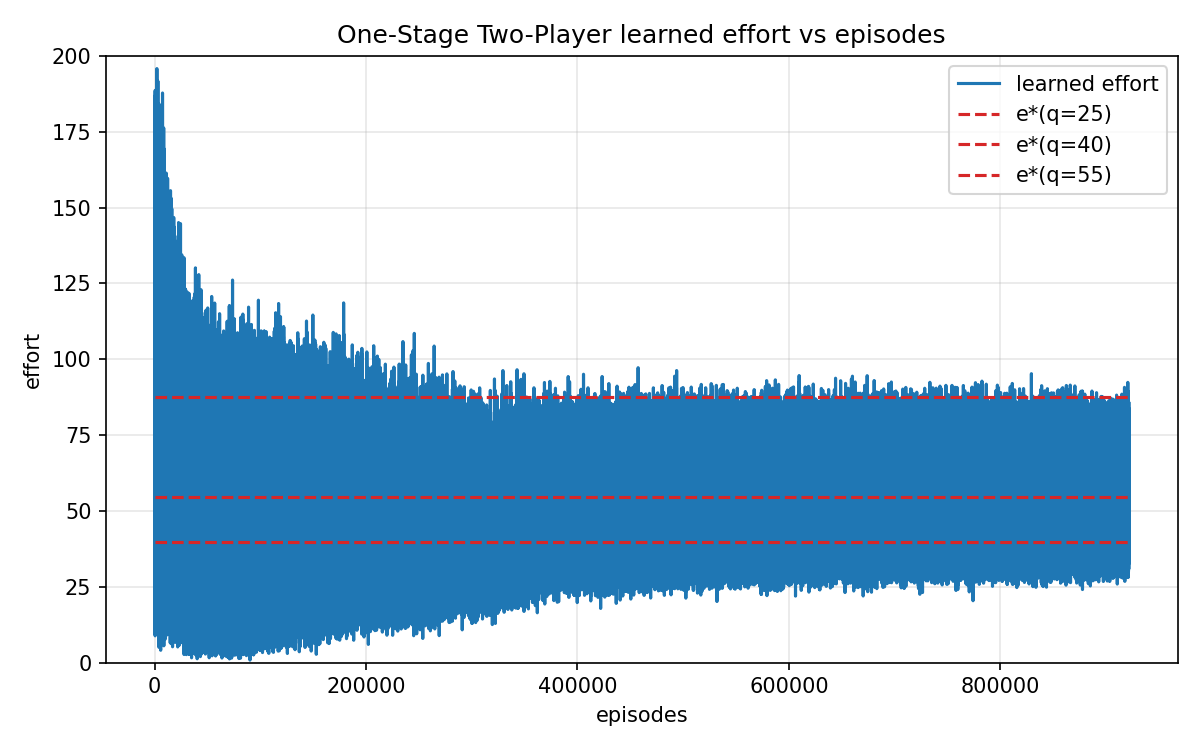
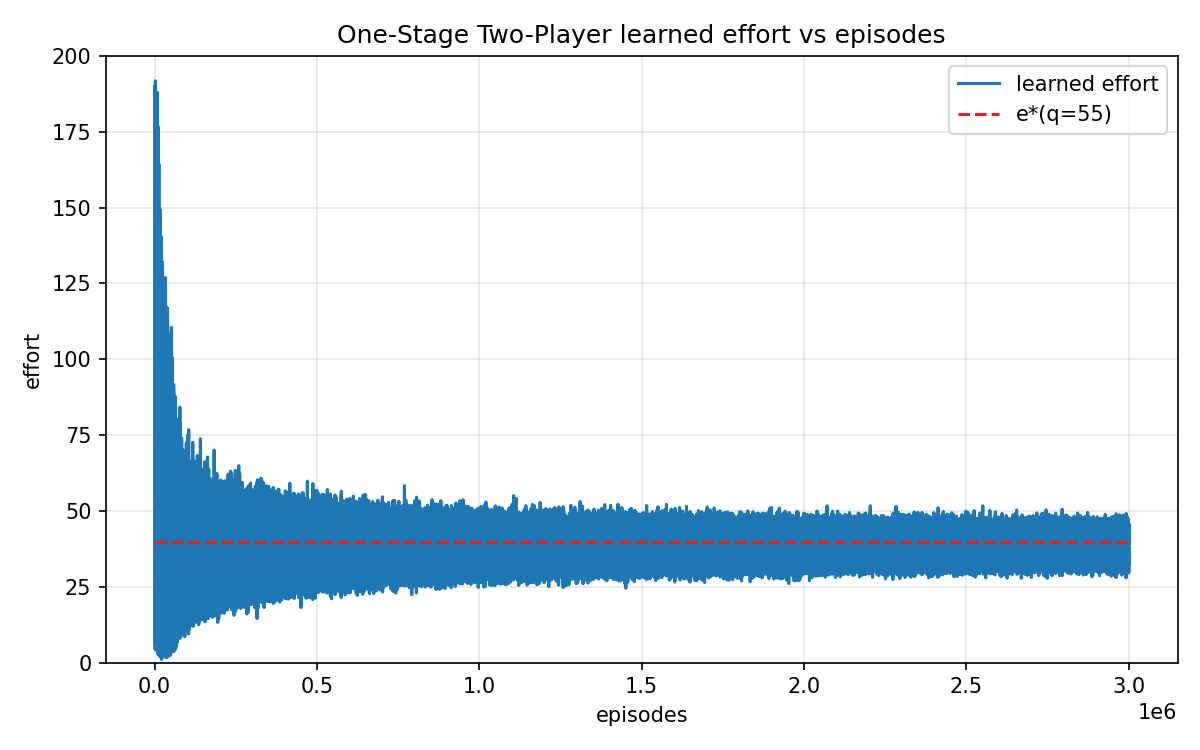
feat(experiment): Update one_stage_two_players experiment
- Enhanced PPO agent with improved training logic and adaptive parameter adjustment
- Updated configuration with revised parameter settings
- Improved logger with additional debug information and better formatting
- Enhanced run script with better experiment tracking and result visualization
- Updated experimental results (CSV and PNG outputs)
- Improved overall experiment workflow and documentation

diff --git a/run/run_two_players.py b/run/run_two_players.py
@@ -130,7 +130,7 @@ def run_gradient(
 
 def run_ppo(
     cfg: Dict,
-    episodes: int = 921600,
+    episodes: Optional[int] = None,
     train_qs: Optional[List[float]] = None,
     eval_qs: Optional[List[float]] = None,
     *,
@@ -143,6 +143,11 @@ def run_ppo(
     - Trains over ``train_qs`` (defaults to cfg["q_list" ]).
     - Returns a list of CSV rows, one per q in ``eval_qs`` (defaults to train_qs).
     """
+    if episodes is None:
+        episodes = int(cfg.get("episodes", 1_800_000))
+    else:
+        episodes = int(episodes)
+
     w_h, w_l, k = cfg["w_h"], cfg["w_l"], cfg["k"]
     effort_bounds = tuple(cfg["effort_bounds_stage2"])  # (0, 200)
     # Respect CLI-provided training set; default to config q_list
@@ -151,19 +156,19 @@ def run_ppo(
 
     # PPO agent with 3-dim state: [q, k, w_gap]
     ppo_cfg = PPOConfig(
-        steps_per_update=int(cfg.get("steps_per_update", 8192)),
+        steps_per_update=int(cfg.get("steps_per_update", 4096)),
         epochs=int(cfg.get("update_epochs", 6)),
         minibatch_size=int(cfg.get("minibatch_size", 1024)),
         state_dim=3,
         hidden=128,
-        opponent_mode=cfg.get("opponent_mode", "ema"),
-        opponent_sync_interval=int(cfg.get("opponent_sync_interval", 10)),
-        opponent_ema_tau=float(cfg.get("opponent_ema_tau", 0.05)),
+        opponent_mode=cfg.get("opponent_mode", "periodic"),
+        opponent_sync_interval=int(cfg.get("opponent_sync_interval", 2)),
+        opponent_ema_tau=float(cfg.get("opponent_ema_tau", 0.20)),
         opponent_snapshot_keep=int(cfg.get("opponent_snapshot_keep", 10)),
-        opponent_history_sample_p=float(cfg.get("opponent_history_sample_p", 0.5)),
+        opponent_history_sample_p=float(cfg.get("opponent_history_sample_p", 0.3)),
         entropy_coef=float(cfg.get("entropy_coef_start", 0.02)),
         lr=float(cfg.get("lr_start", 3e-4)),
-        clip_eps=float(cfg.get("clip_range_start", 0.2)),
+        clip_eps=float(cfg.get("clip_range_start", 0.30)),
     )
     agent = PPOTwoPlayersBandit(effort_bounds=effort_bounds, cfg=ppo_cfg)
     agent.cfg.entropy_coef = float(cfg.get("entropy_coef_start", agent.cfg.entropy_coef))
@@ -177,25 +182,38 @@ def run_ppo(
     rng = np.random.default_rng(cfg.get("seed", 42))
     # Entropy / LR schedules: hold high values until ~2/3 progress, then anneal
     entropy_start = float(cfg.get("entropy_coef_start", agent.cfg.entropy_coef))
-    entropy_hold = float(cfg.get("entropy_coef_hold", 0.01))
-    entropy_final = float(cfg.get("entropy_coef_end", 0.002))
+    entropy_hold = float(cfg.get("entropy_coef_hold", entropy_start))
+    entropy_final = float(cfg.get("entropy_coef_end", 0.005))
     update_idx = 0
     # Late-phase settings
     total_updates = (total_steps_target + ppo_cfg.steps_per_update - 1) // ppo_cfg.steps_per_update
     hold_fraction = 2.0 / 3.0
     hold_updates = max(1, int(math.ceil(total_updates * hold_fraction)))
     tail_updates = max(1, total_updates - hold_updates)
-    # Learning rate schedule: hold at 2.2e-4, then anneal to 1.5e-4
+    # Learning rate schedule: hold at starting value, then anneal to final value
     lr_hold = float(cfg.get("lr_start", agent.cfg.lr))
-    lr_final = float(cfg.get("lr_end", 1e-4))
-    # Clip cosine schedule
+    lr_final = float(cfg.get("lr_end", 2e-4))
+    # Clip schedule parameters
     clip_max = float(cfg.get("clip_range_start", agent.cfg.clip_eps))
-    clip_min = float(cfg.get("clip_range_end", 0.1))
-    # Self-play lag schedule: warmup then fade
-    lag_warmup_cfg = cfg.get("lag_warmup_updates")
+    clip_min = float(cfg.get("clip_range_end", 0.15))
+    # Self-play lag schedule: short warmup then fade
+    lag_warmup_updates = max(0, int(cfg.get("lag_warmup_updates", 10)))
     lag_fade_cfg = cfg.get("lag_fade_updates")
-    lag_warmup_updates = max(0, int(lag_warmup_cfg)) if lag_warmup_cfg is not None else max(1, total_updates // 2)
     lag_fade_updates = max(0, int(lag_fade_cfg)) if lag_fade_cfg is not None else max(1, total_updates // 3)
+
+    history_prob_start = float(cfg.get("opponent_history_sample_p", agent.opponent_history_sample_p))
+    history_prob_end = float(cfg.get("opponent_history_sample_p_end", history_prob_start))
+    agent.opponent_history_sample_p = history_prob_start
+
+    clip_factor = 1.0
+    lr_factor = 1.0
+    clip_floor = 0.10
+    clip_ceiling = 0.45
+    min_lr = 5e-5
+    max_lr = 5e-4
+    target_kl = float(cfg.get("target_kl", 0.01))
+    kl_low = 0.5 * target_kl
+    kl_high = 3.0 * target_kl
 
     last_update_metrics: Optional[Dict[str, float]] = None
     eval_every = int(cfg.get("eval_every_updates", 20) or 0)
@@ -205,7 +223,14 @@ def run_ppo(
     early_stop_triggered = False
 
     while steps_done < total_steps_target:
-        # Entropy: hold near 0.01 for first ~2/3 updates, then ramp to zero
+        if total_updates > 1:
+            hist_progress = float(update_idx) / float(total_updates - 1)
+            hist_progress = max(0.0, min(1.0, hist_progress))
+        else:
+            hist_progress = 1.0
+        agent.opponent_history_sample_p = history_prob_start + (history_prob_end - history_prob_start) * hist_progress
+
+        # Entropy: hold high for first ~2/3 updates, then ramp down
         if update_idx < hold_updates:
             if hold_updates > 1:
                 hold_progress = float(update_idx) / float(hold_updates - 1)
@@ -217,22 +242,29 @@ def run_ppo(
             tail_progress = float(update_idx - hold_updates) / float(max(1, tail_updates - 1))
             tail_progress = max(0.0, min(1.0, tail_progress))
             agent.cfg.entropy_coef = entropy_hold + (entropy_final - entropy_hold) * tail_progress
-        # Clip cosine schedule across total updates
-        if total_updates > 1:
-            clip_progress = float(update_idx) / float(total_updates - 1)
-        else:
-            clip_progress = 1.0
-        clip_cosine = 0.5 * (1.0 + math.cos(math.pi * clip_progress))
-        agent.cfg.clip_eps = clip_min + (clip_max - clip_min) * clip_cosine
-        # LR cosine decay across total updates
+        # Clip schedule with adaptive scaling
         if update_idx < hold_updates:
-            new_lr = lr_hold
+            clip_base = clip_max
+        else:
+            tail_progress = float(update_idx - hold_updates) / float(max(1, tail_updates - 1))
+            tail_progress = max(0.0, min(1.0, tail_progress))
+            clip_base = clip_max + (clip_min - clip_max) * tail_progress
+        clip_val = clip_base * clip_factor
+        clip_val = max(clip_floor, min(clip_ceiling, clip_val))
+        agent.cfg.clip_eps = clip_val
+        clip_base_current = clip_base
+        # Learning rate schedule with adaptive scaling
+        if update_idx < hold_updates:
+            lr_base = lr_hold
         else:
             lr_tail_progress = float(update_idx - hold_updates) / float(max(1, tail_updates - 1))
             lr_tail_progress = max(0.0, min(1.0, lr_tail_progress))
-            new_lr = lr_hold + (lr_final - lr_hold) * lr_tail_progress
+            lr_base = lr_hold + (lr_final - lr_hold) * lr_tail_progress
+        lr_val = lr_base * lr_factor
+        lr_val = max(min_lr, min(max_lr, lr_val))
         for g in agent.opt.param_groups:
-            g["lr"] = new_lr
+            g["lr"] = lr_val
+        lr_base_current = lr_base
         # Determine probability of sampling lagged-opponent paths for this update
         if update_idx < lag_warmup_updates:
             lag_prob = 1.0
@@ -256,19 +288,31 @@ def run_ppo(
             # Late phase: fully on-policy symmetric sampling.
             use_opponent = (lag_prob > 0.0) and (rng.random() < lag_prob)
             if use_opponent:
-                a2_norm, e2, _, _ = agent.act_opponent(s2)
-                logp2 = None
-                v2 = None
+                a2_norm, e2, logp2, _ = agent.act_opponent(s2)
+                v2 = agent.value_only(s2)
             else:
                 a2_norm, e2, logp2, v2 = agent.act(s2)
 
             _, rewards, _, done, _ = env.step((torch.tensor([float(e1.item())]), torch.tensor([float(e2.item())])))
 
             agent.store(s1, a1_norm, logp1, float(rewards[0].item()), v1, bool(done))
-            if not use_opponent:
-                agent.store(s2, a2_norm, logp2, float(rewards[1].item()), v2, bool(done))
+            agent.store(s2, a2_norm, logp2, float(rewards[1].item()), v2, bool(done))
             history.append(float((e1.item() + e2.item()) / 2.0))
         last_update_metrics = agent.update()
+        kl_val = float(last_update_metrics.get("approx_kl", 0.0) if last_update_metrics else 0.0)
+        if not math.isfinite(kl_val):
+            kl_val = 0.0
+        if kl_val < kl_low:
+            clip_factor = min(clip_factor * 1.2, 1.5)
+            lr_factor = min(lr_factor * 1.25, 1.5)
+        elif kl_val > kl_high:
+            clip_factor = max(clip_factor * 0.8, 0.5)
+            lr_factor = max(lr_factor * 0.8, 0.2)
+        clip_val = max(clip_floor, min(clip_ceiling, clip_base_current * clip_factor))
+        agent.cfg.clip_eps = clip_val
+        lr_val = max(min_lr, min(max_lr, lr_base_current * lr_factor))
+        for g in agent.opt.param_groups:
+            g["lr"] = lr_val
         # After each PPO update, evaluate and log gaps for quick monitoring
         upd_i = update_idx + 1
         try:
@@ -357,7 +401,13 @@ def run_ppo(
                 "reward_opp": reward_opp,
             }
 
-        final_e2 = _compute_effort(agent.net)
+        s_agent = agent.state_from_params(q=float(q), k=k, w_h=w_h, w_l=w_l)
+        with torch.no_grad():
+            dist_agent, _ = agent.net.dist(s_agent)
+            a_agent = dist_agent.mean.squeeze().clamp(0.0, 1.0)
+            final_e2 = float(effort_bounds[0] + a_agent.detach().cpu().item() * (effort_bounds[1] - effort_bounds[0]))
+            alpha_eval = float(dist_agent.concentration1.mean().item())
+            beta_eval = float(dist_agent.concentration0.mean().item())
         stage2_gap = abs(final_e2 - e2_star_val)
 
         row = build_csv_row(
@@ -380,6 +430,10 @@ def run_ppo(
         row["opp_ema_tau"] = agent.opponent_ema_tau
         row["opp_hist_size"] = len(agent._opponent_history)
         row["last_sync_step"] = agent._last_sync_step
+        row["approx_kl"] = last_update_metrics.get("approx_kl", float("nan")) if last_update_metrics else float("nan")
+        row["batch_entropy"] = last_update_metrics.get("batch_entropy", float("nan")) if last_update_metrics else float("nan")
+        row["alpha_mean"] = alpha_eval
+        row["beta_mean"] = beta_eval
 
         if eval_symmetric:
             sym_eval = _evaluate_pair(agent.net, agent.net)
@@ -434,7 +488,12 @@ def main():
     parser = argparse.ArgumentParser(description="One-Stage Two-Player Experiment (spec)")
     parser.add_argument("--method", choices=["gradient", "ppo"], default="gradient")
     parser.add_argument("--q", type=float, help="Override q (otherwise run all in config q_list)")
-    parser.add_argument("--episodes", type=int, default=921600, help="Episodes for PPO (default 921600 ≈ 300 updates at 3072 steps/update)")
+    parser.add_argument(
+        "--episodes",
+        type=int,
+        default=base_config.get("episodes", 1_800_000),
+        help="Episodes for PPO (default config value, e.g. 2.4e6 ≈ 585 updates at 4096 steps/update)",
+    )
     parser.add_argument("--grad-lr", type=float, default=0.1, help="Learning rate for gradient descent solver.")
     parser.add_argument("--grad-steps", type=int, default=2000, help="Maximum gradient descent iterations.")
     parser.add_argument("--grad-epsilon", type=float, default=0.1, help="Finite-difference epsilon for gradients.")
@@ -467,6 +526,7 @@ def main():
         cfg["effort_range"] = bounds
     if args.seed is not None:
         cfg["seed"] = int(args.seed)
+    cfg["episodes"] = int(args.episodes)
 
     csv_path = os.path.join("results", "one_stage_two_players.csv")
     os.makedirs(os.path.dirname(csv_path), exist_ok=True)

diff --git a/utils/logger.py b/utils/logger.py
@@ -59,10 +59,29 @@ def save_standardized_result(experiment_data: Dict[str, Any], filename: str):
                                        experiment_data.get("convergence_time", "N/A")),
         "Gap_from_theoretical": experiment_data.get("Gap_from_theoretical",
                                                    experiment_data.get("gap", 0.0)),
+        "abs_err": experiment_data.get("abs_err", ""),
         "stage2_gap_unweighted": experiment_data.get("stage2_gap_unweighted", ""),
         "gradient_iterations": experiment_data.get("gradient_iterations", ""),
         "gradient_final_grad": experiment_data.get("gradient_final_grad", ""),
         "gradient_mode": experiment_data.get("gradient_mode", ""),
+        "opp_mode": experiment_data.get("opp_mode", ""),
+        "opp_sync_interval": experiment_data.get("opp_sync_interval", ""),
+        "opp_ema_tau": experiment_data.get("opp_ema_tau", ""),
+        "opp_hist_size": experiment_data.get("opp_hist_size", ""),
+        "last_sync_step": experiment_data.get("last_sync_step", ""),
+        "approx_kl": experiment_data.get("approx_kl", ""),
+        "batch_entropy": experiment_data.get("batch_entropy", ""),
+        "alpha_mean": experiment_data.get("alpha_mean", ""),
+        "beta_mean": experiment_data.get("beta_mean", ""),
+        "eval_vs_opponent_effort": experiment_data.get("eval_vs_opponent_effort", ""),
+        "eval_vs_opponent_reward": experiment_data.get("eval_vs_opponent_reward", ""),
+        "eval_vs_opponent_opp_effort": experiment_data.get("eval_vs_opponent_opp_effort", ""),
+        "eval_vs_opponent_abs_err": experiment_data.get("eval_vs_opponent_abs_err", ""),
+        "eval_vs_history_effort_mean": experiment_data.get("eval_vs_history_effort_mean", ""),
+        "eval_vs_history_effort_std": experiment_data.get("eval_vs_history_effort_std", ""),
+        "eval_vs_history_reward_mean": experiment_data.get("eval_vs_history_reward_mean", ""),
+        "eval_vs_history_reward_std": experiment_data.get("eval_vs_history_reward_std", ""),
+        "eval_vs_history_abs_err_mean": experiment_data.get("eval_vs_history_abs_err_mean", ""),
     }
     
     # Ensure results directory exists
@@ -75,8 +94,13 @@ def save_standardized_result(experiment_data: Dict[str, Any], filename: str):
             "stage1_weight", "stage2_weight", "k1", "k2", "information_revelation",
             "theoretical_stage1_effort", "theoretical_stage2_effort", "Model_training",
             "final_stage1_effort", "final_stage2_effort", "final_weighted_effort",
-            "Convergence_Quality", "episodes", "Gap_from_theoretical", "stage2_gap_unweighted",
-            "gradient_iterations", "gradient_final_grad", "gradient_mode"
+            "Convergence_Quality", "episodes", "Gap_from_theoretical", "abs_err", "stage2_gap_unweighted",
+            "gradient_iterations", "gradient_final_grad", "gradient_mode",
+            "opp_mode", "opp_sync_interval", "opp_ema_tau", "opp_hist_size", "last_sync_step",
+            "approx_kl", "batch_entropy", "alpha_mean", "beta_mean",
+            "eval_vs_opponent_effort", "eval_vs_opponent_reward", "eval_vs_opponent_opp_effort",
+            "eval_vs_opponent_abs_err", "eval_vs_history_effort_mean", "eval_vs_history_effort_std",
+            "eval_vs_history_reward_mean", "eval_vs_history_reward_std", "eval_vs_history_abs_err_mean"
         ]
         writer = csv.DictWriter(file, fieldnames=fieldnames)
         if not file_exists:

diff --git a/config/one_stage_two_players.py b/config/one_stage_two_players.py
@@ -17,28 +17,31 @@ config = {
     "seed": 42,
 
     # Opponent (lag) settings
-    "opponent_mode": "ema",
-    "opponent_sync_interval": 10,
-    "opponent_ema_tau": 0.05,
+    "opponent_mode": "periodic",
+    "opponent_sync_interval": 2,
+    "opponent_ema_tau": 0.20,
     "opponent_snapshot_keep": 10,
-    "opponent_history_sample_p": 0.5,
+    "opponent_history_sample_p": 0.0,
 
     # PPO rollout & update (bandit-friendly defaults)
-    "steps_per_update": 8192,
+    "steps_per_update": 4096,
     "minibatch_size": 1024,
     "update_epochs": 6,
+    "episodes": 3000000,
     "eval_every_updates": 20,
-    "early_stop_abs_err": 1.0,
-    "early_stop_patience": 5,
+    "early_stop_abs_err": 0.8,
+    "early_stop_patience": 6,
     "entropy_coef_start": 0.02,
-    "entropy_coef_hold": 0.01,
-    "entropy_coef_end": 0.002,
+    "entropy_coef_hold": 0.02,
+    "entropy_coef_end": 0.004,
     "lr_start": 3e-4,
-    "lr_end": 1e-4,
-    "clip_range_start": 0.2,
-    "clip_range_end": 0.1,
-    "lag_warmup_updates": None,
-    "lag_fade_updates": None,
+    "lr_end": 2e-4,
+    "clip_range_start": 0.25,
+    "clip_range_end": 0.12,
+    "target_kl": 0.008,
+    "lag_warmup_updates": 10,
+    "lag_fade_updates": 10,
+    "opponent_history_sample_p_end": 0.0,
 
     # Plotting and evaluation
     "enable_overlay": True,

diff --git a/agents/ppo_two_players_clean.py b/agents/ppo_two_players_clean.py
@@ -134,7 +134,13 @@ class PPOTwoPlayersBandit:
     def act_opponent(self, state: torch.Tensor):
         opp_net = self._sample_opponent_policy_for_play()
         with torch.no_grad():
-            return self._act_with_net(opp_net, state)
+            dist, _ = opp_net.dist(state.to(self.device))
+            eps = 1e-6
+            a_norm = dist.sample()
+            a_safe = a_norm.clamp(eps, 1.0 - eps)
+            logp = dist.log_prob(a_safe).squeeze(-1)
+            effort = self.low + a_safe.squeeze(-1) * (self.high - self.low)
+        return a_safe.detach(), effort.detach(), logp.detach(), None
 
     def _sample_opponent_policy_for_play(self) -> ActorCritic:
         history_available = len(self._opponent_history) > 0
@@ -190,6 +196,11 @@ class PPOTwoPlayersBandit:
     def mean_effort(self, state: torch.Tensor) -> float:
         a_mean = self.mean_action_norm(state).squeeze().item()
         return float(self.low + a_mean * (self.high - self.low))
+
+    @torch.no_grad()
+    def value_only(self, state: torch.Tensor):
+        _, value = self.net.dist(state.to(self.device))
+        return value.detach()
 
     # ---- storage and advantage ----
     def reset_storage(self):
